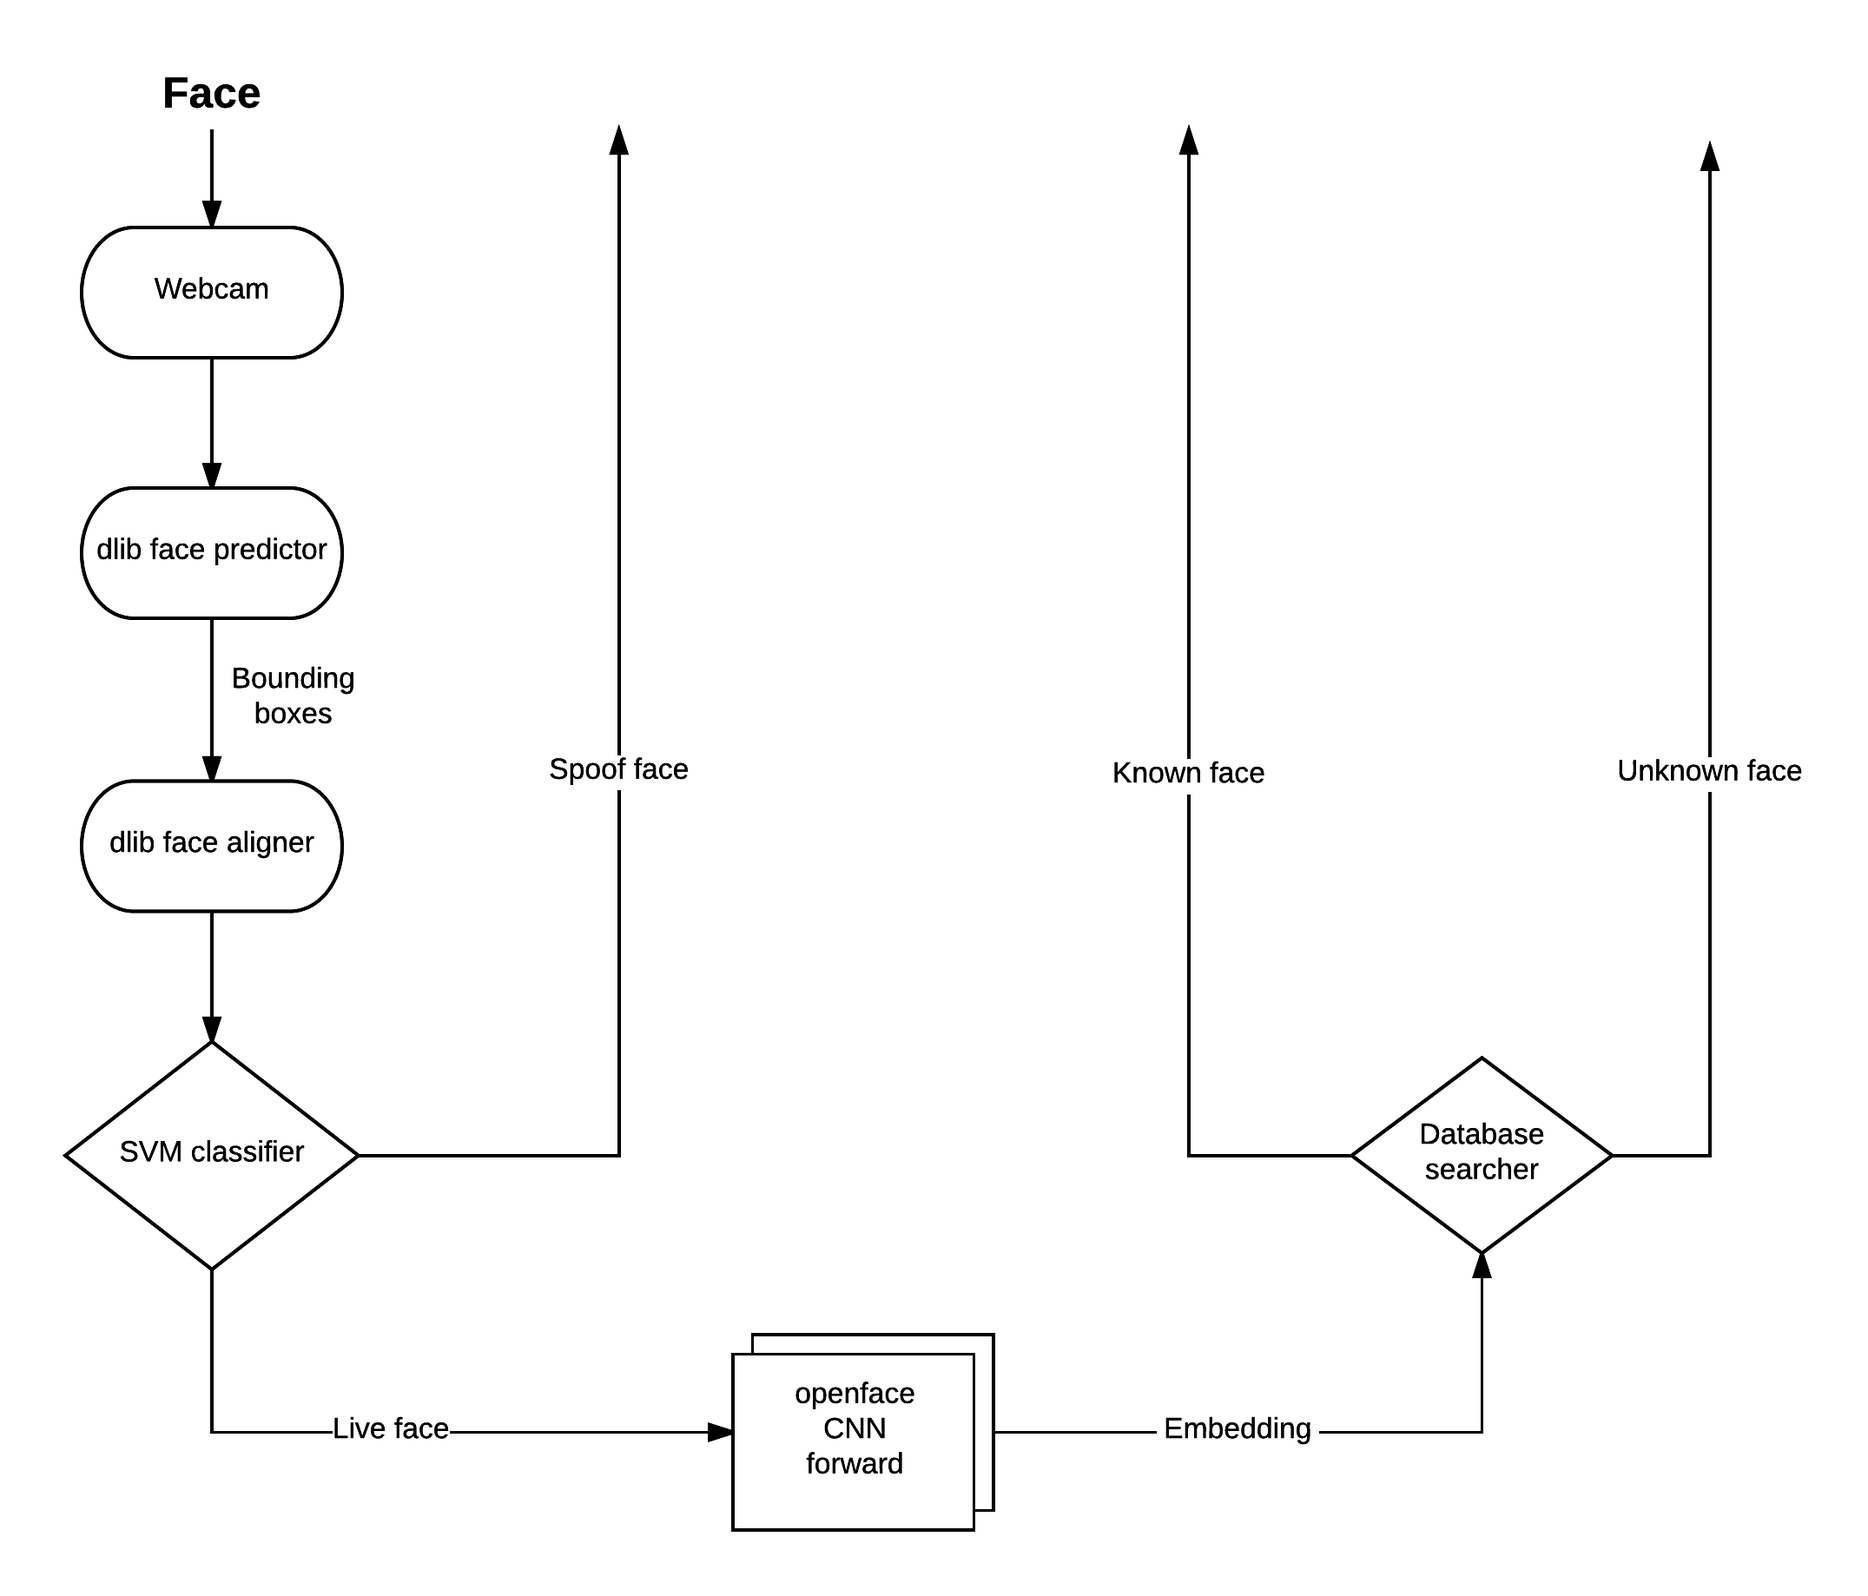
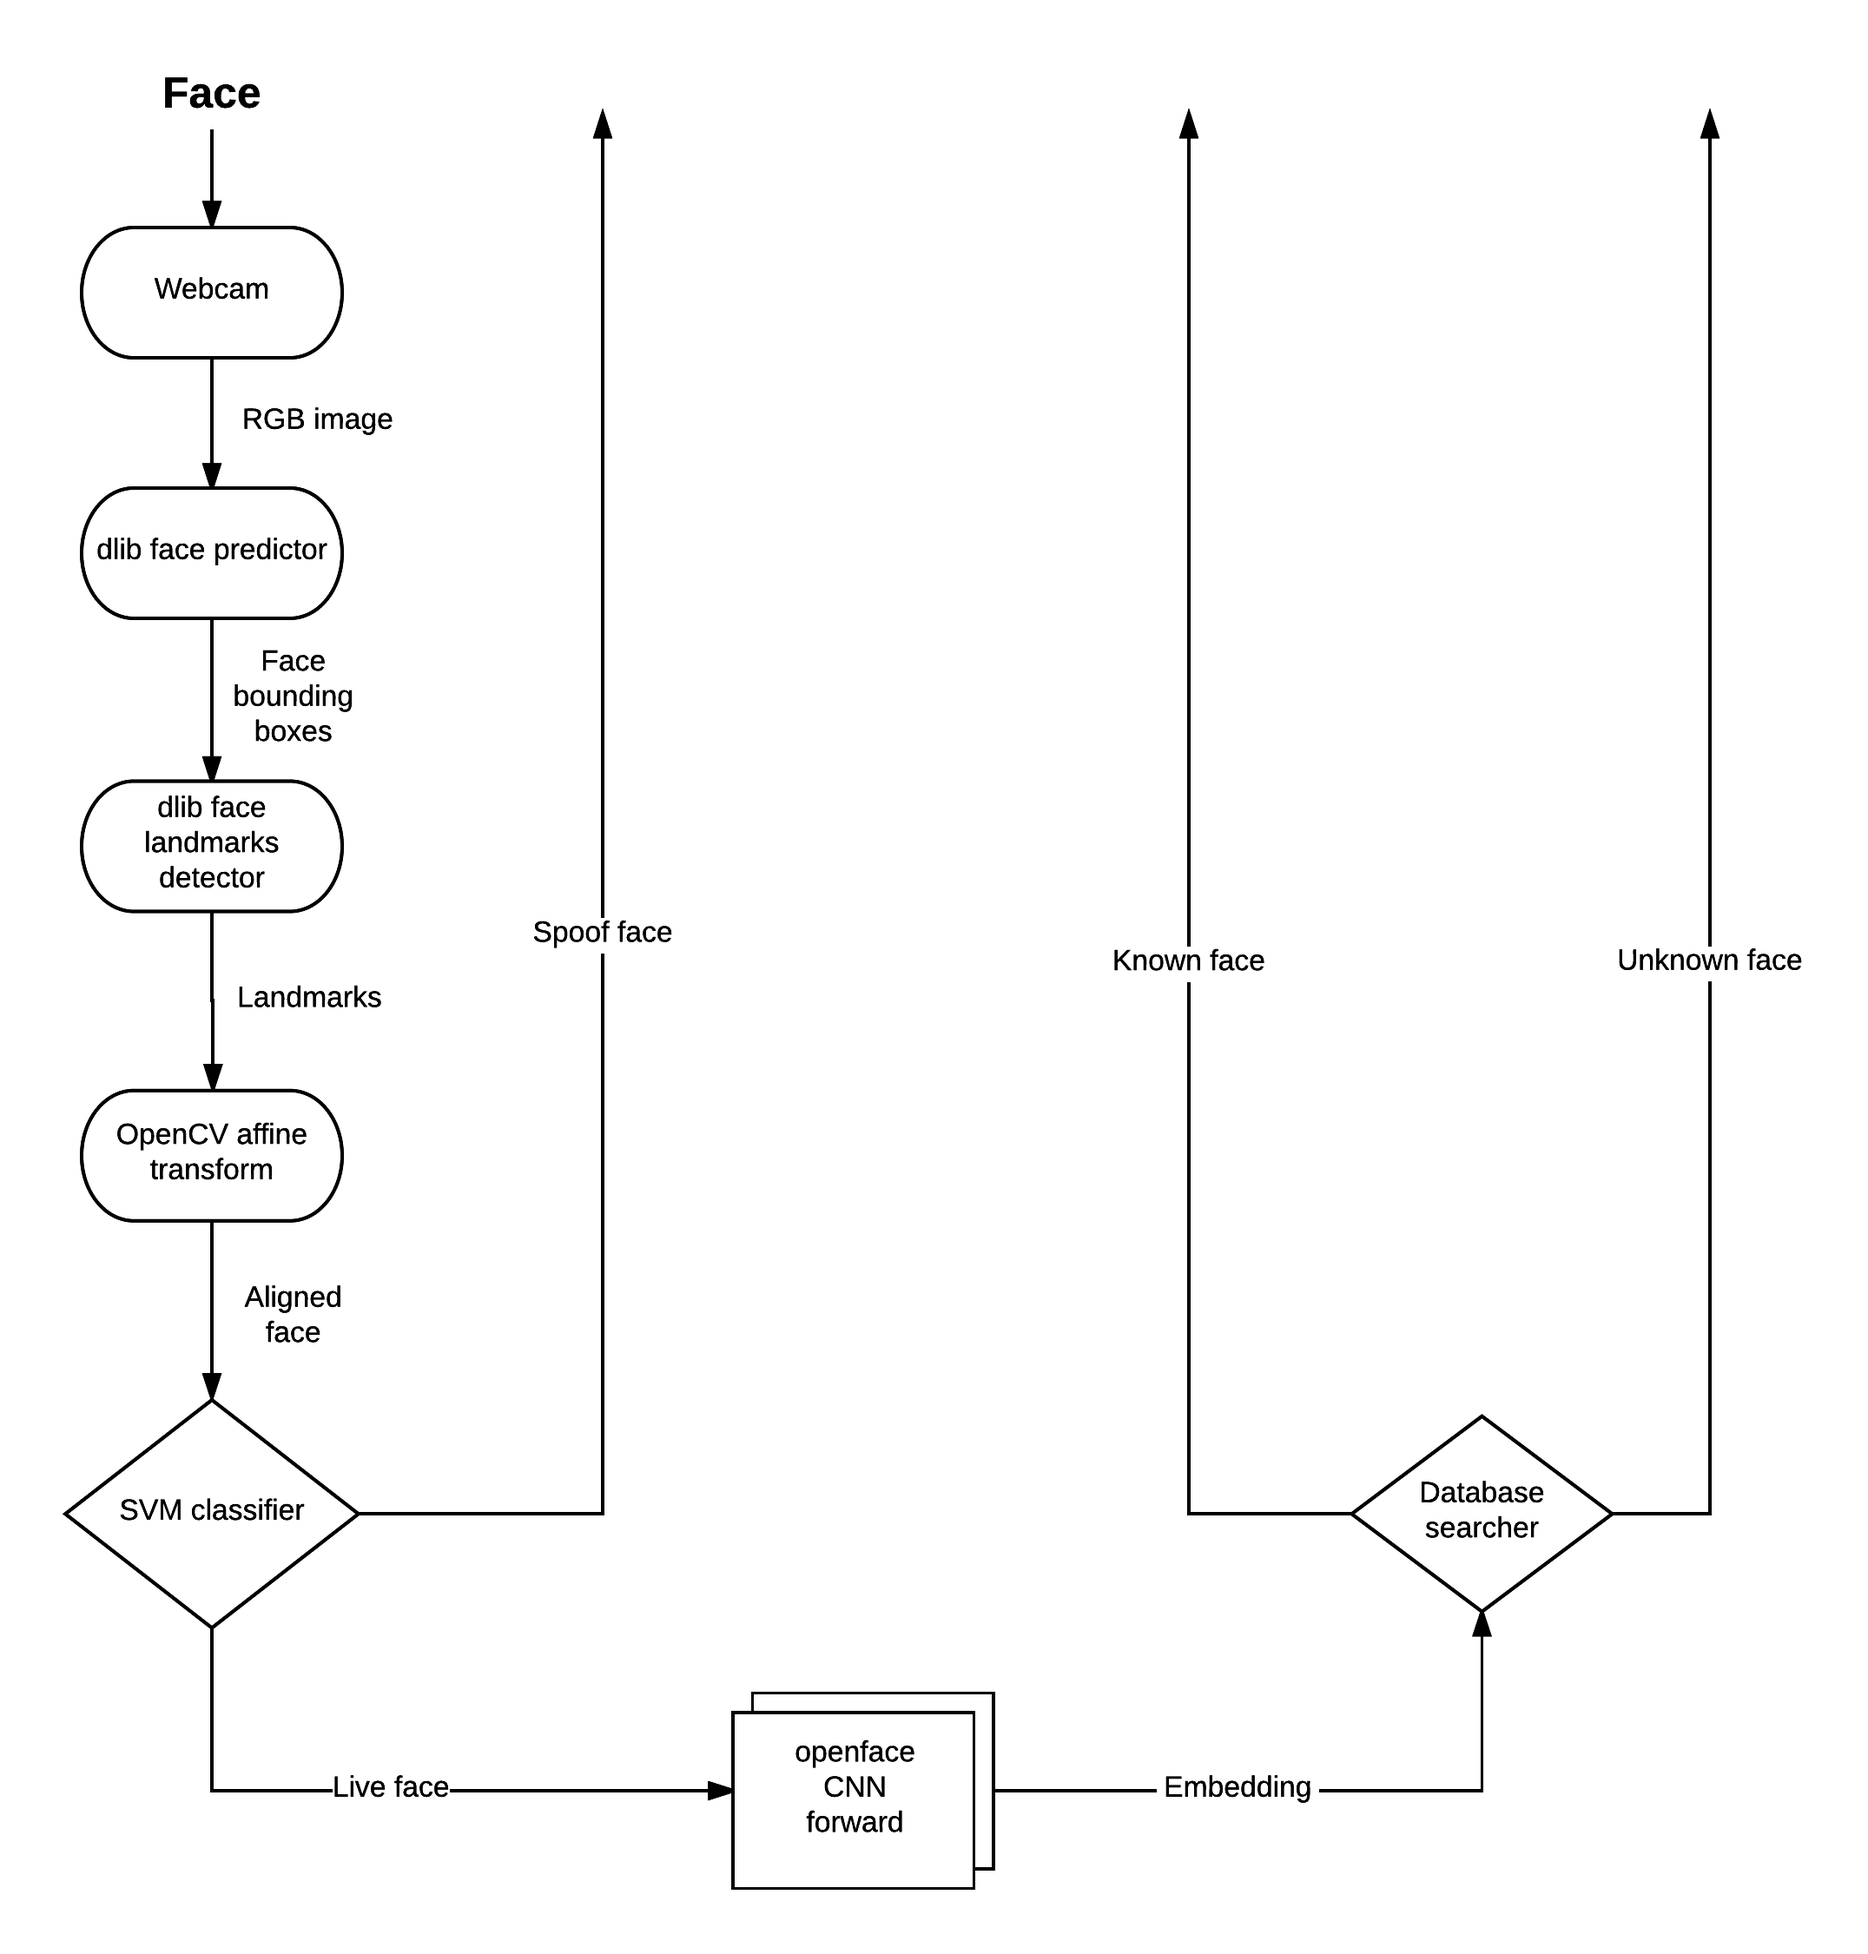
Added images to application architecture

diff --git a/latex-romanian-thesis/sections/application.tex b/latex-romanian-thesis/sections/application.tex
@@ -17,6 +17,21 @@ Having as target the creation of a reliable system, we favored only the most sol
 The application was designed so that it would have a component for each theoretical aspect described above. Therefore, in the application, the stages from reading an image to asigning and identity to a face are as follows: firstly, a frame is captured using the webcam of the laptop or an external one with the help of opencv framework, then the dlib \cite{dlib09} face predictor is used to determine all face bounding boxes in the image. 
 Each bounding box is then used to crop the face from the full image and, upon that, the dlib facial landmark detector is aplied to it, which computes the 68 dimmensional array with points corresponding to each landmark. 
 Then the opencv implementation of affine transformation is used to align the outer eyes and nose. Having the aligned image of the face, a face spoof validator is used to determine the liveness of it. 
-In order to do so, the described sliding windows method was implemented where for each window three LBPs \textbf{APPEND HERE THE FIGURE WITH LBP VISUALISATION} with parameters $(P,R) \in \{(8,1), (8,2), (16,2)\}$ are employed using the LBP implementation available in the \textit{feature} module of the skimage \cite{scikit-image} framework for which we set the method to "nri\_uniform" representing the non-rotation invariant version\textbf{Here it should be defined the rotation and nonrotation invariant versions of lbp} of the uniform local binary pattern. A thing to note here is that, even though in the literature the uniform LBP is nonrotation invariante, in the scikit-image \cite{scikit-image} implementation, setting the method to simply uniform results in the computation of a rotation invariant descriptor. 
-Once the descriptor is computed, a previously trained SVM with linear kernel is then used to predict the probability of liveness \textbf{APPEND HERE A FIGURE WITH RED AND BLUE EXAMPLES}. A threshold of 0.5 is used to map the probabilities in two classes. If the face is not valid, the opencv rectangle drawing functionality is used to put a red bounding box over the spoof face. In the other case, we forward the face through the openface neural network obtaining the 128 dimensional mapping of it. We then iterate through the database of known faces and find the face whose representation is closest to the previously computed one. If this minimum distance is smaller than the threshold used for identity matching, we put a green bounding box around the face \textbf{PUT HERE A FIGURE WITH A RECOGNIZED FACE AND ONE NOT} and append the name corresponding to the matched face. 
+In order to do so, the described sliding windows method was implemented where for each window three LBPs with parameters $(P,R) \in \{(8,1), (8,2), (16,2)\}$ are employed using the LBP implementation available in the \textit{feature} module of the skimage \cite{scikit-image} framework for which we set the method to "nri\_uniform" representing the non-rotation invariant version\textbf{Here it should be defined the rotation and nonrotation invariant versions of lbp} of the uniform local binary pattern. A thing to note here is that, even though in the literature the uniform LBP is nonrotation invariante, in the scikit-image \cite{scikit-image} implementation, setting the method to simply uniform results in the computation of a rotation invariant descriptor. 
+\begin{figure}[H]
+	\captionsetup{width=15cm,font=small}
+	\begin{center}
+		\includegraphics[width=15cm,height=4cm]{visual_results_lbp}
+	\end{center}
+	\caption[LBP feature visualisation on faces]{Here we present the visualisation of the basic LBP with parameters $(P,R) = (8,1)$ for: (a) real image, (b) nexus 5 spoof medium taken with rear camera of a nexus 5, (c) nexus 5 spoof medium taken with front camera of a nexus 5, (d) printed photo spoof medium taken with rear camera of a nexus 5 and (e) printed photo spoof medium taken with front camera of a nexus 5}
+	\label{fig:application_architecture}
+\end{figure}
+Once the descriptor is computed, a previously trained SVM with linear kernel is then used to predict the probability of liveness. \begin{figure}[H]
+	\captionsetup{width=15cm,font=small}
+	\begin{center}
+		\includegraphics[width=15cm,height=4cm]{spoof_classification_results}
+	\end{center}
+	\caption[Results on spoof classification]{Here we present the results of the SVM trained on the CASIA database for an example in the test data: (a) is the live face which is correctly classified as being valid, (b) is a spoof face on an IPAD which is correctly classified as being invalid and (c) is a spoof face on a printed paper which is misclassified as being valid}
+	\label{fig:spoof_classification_results}
+\end{figure} A threshold of 0.5 is used to map the probabilities in two classes. If the face is not valid, the opencv rectangle drawing functionality is used to put a red bounding box over the spoof face. In the other case, we forward the face through the openface neural network obtaining the 128 dimensional mapping of it. We then iterate through the database of known faces and find the face whose representation is closest to the previously computed one. If this minimum distance is smaller than the threshold used for identity matching, we put a green bounding box around the face \textbf{PUT HERE A FIGURE WITH A RECOGNIZED FACE AND ONE NOT} and append the name corresponding to the matched face. 
 \section{Running time}
